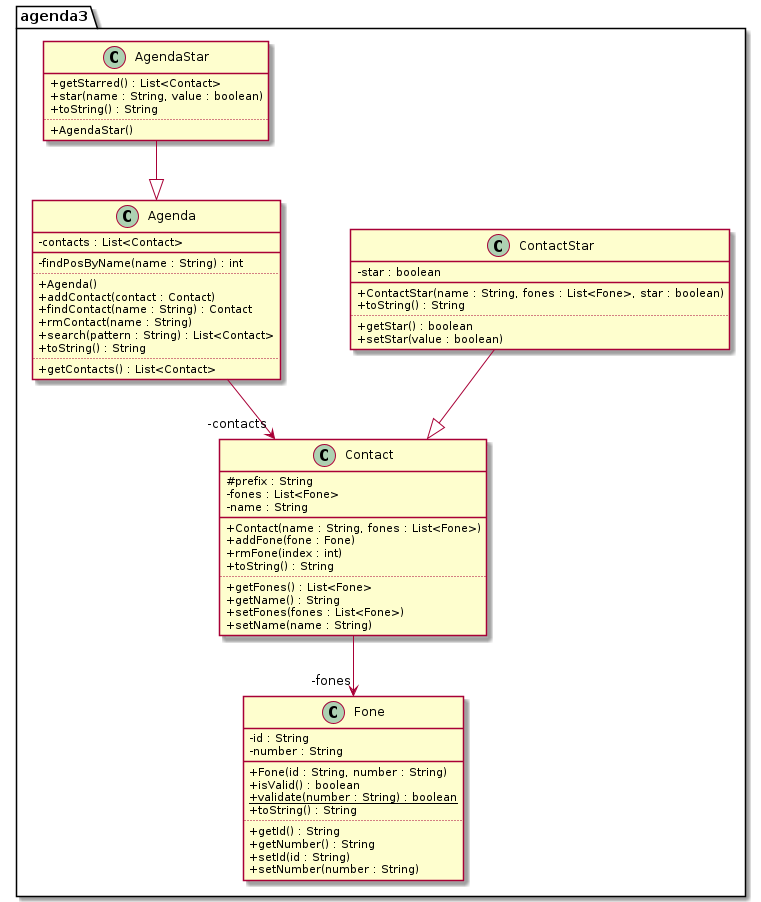
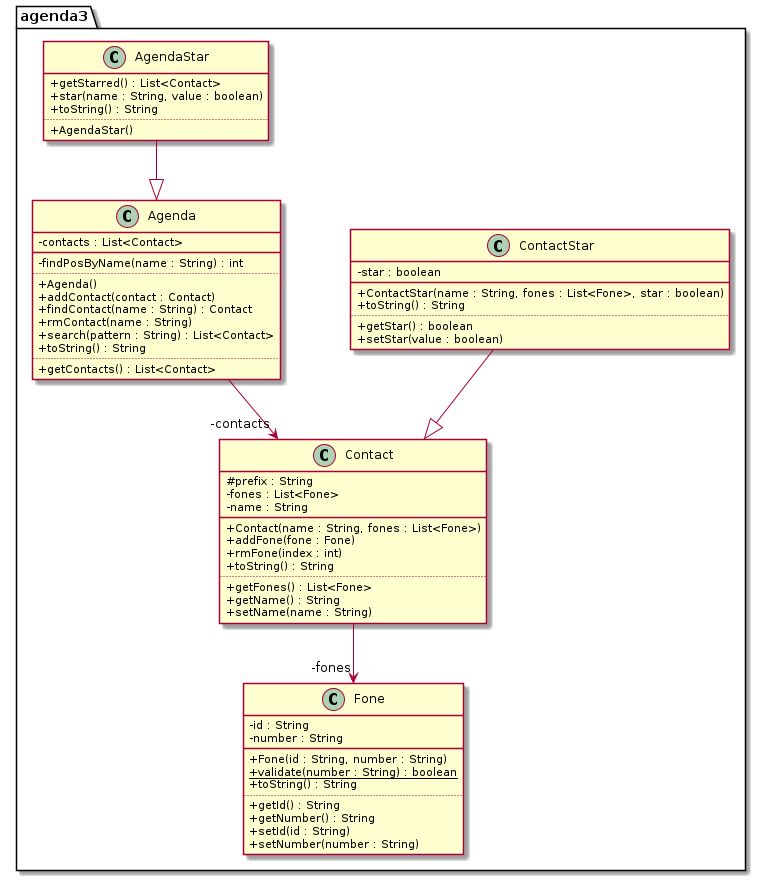
Atualização

Changed region(s): [[0.0302, 0.0, 0.9671, 0.9863]]

diff --git a/trabalhos/09_1/Readme.md b/trabalhos/09_1/Readme.md
@@ -114,17 +114,13 @@ public class Fone {
     void setId(String id);
     String getNumber();
     void setNumber(String number);
-    //utiliza o static validate para retornar se essa instancia do fone é valida
-    public boolean isValid();
 }
 class Contact {
     private String name;
     private List<Fone> fones;
     protected String prefix = "-"; //utilizado no toString
-    private boolean star;
     //Crie um ArrayList para o ATRIBUTO fones
     //Se a variável fones não for null, adicione todos os fones usando o método addFone
-    //Inicie star como false
     public Contact(String name, List<Fone> fones);
     //Se fone for válido, insira no atributo fones
     //Se não, informe o erro
@@ -140,9 +136,6 @@ class Contact {
     String getName();
     void setName(String name);
     List<Fone> getFones();
-    //limpe a lista de fones
-    //utilize o addFone para adicionar apenas os fones válidos
-    public void setFones(List<Fone> fones); 
 }
 class Agenda {
     private List<Contact> contacts;
@@ -160,8 +153,8 @@ class Agenda {
     //Monte uma lista auxiliar procurando no .toString() de cada contato
     //se ele possui a substring procurada.
     public List<Contact> search(String pattern);
-    public String toString();
     List<Contact> getContacts();
+    public String toString();
 }
 class ContactStar extends Contact {
     private boolean star;
